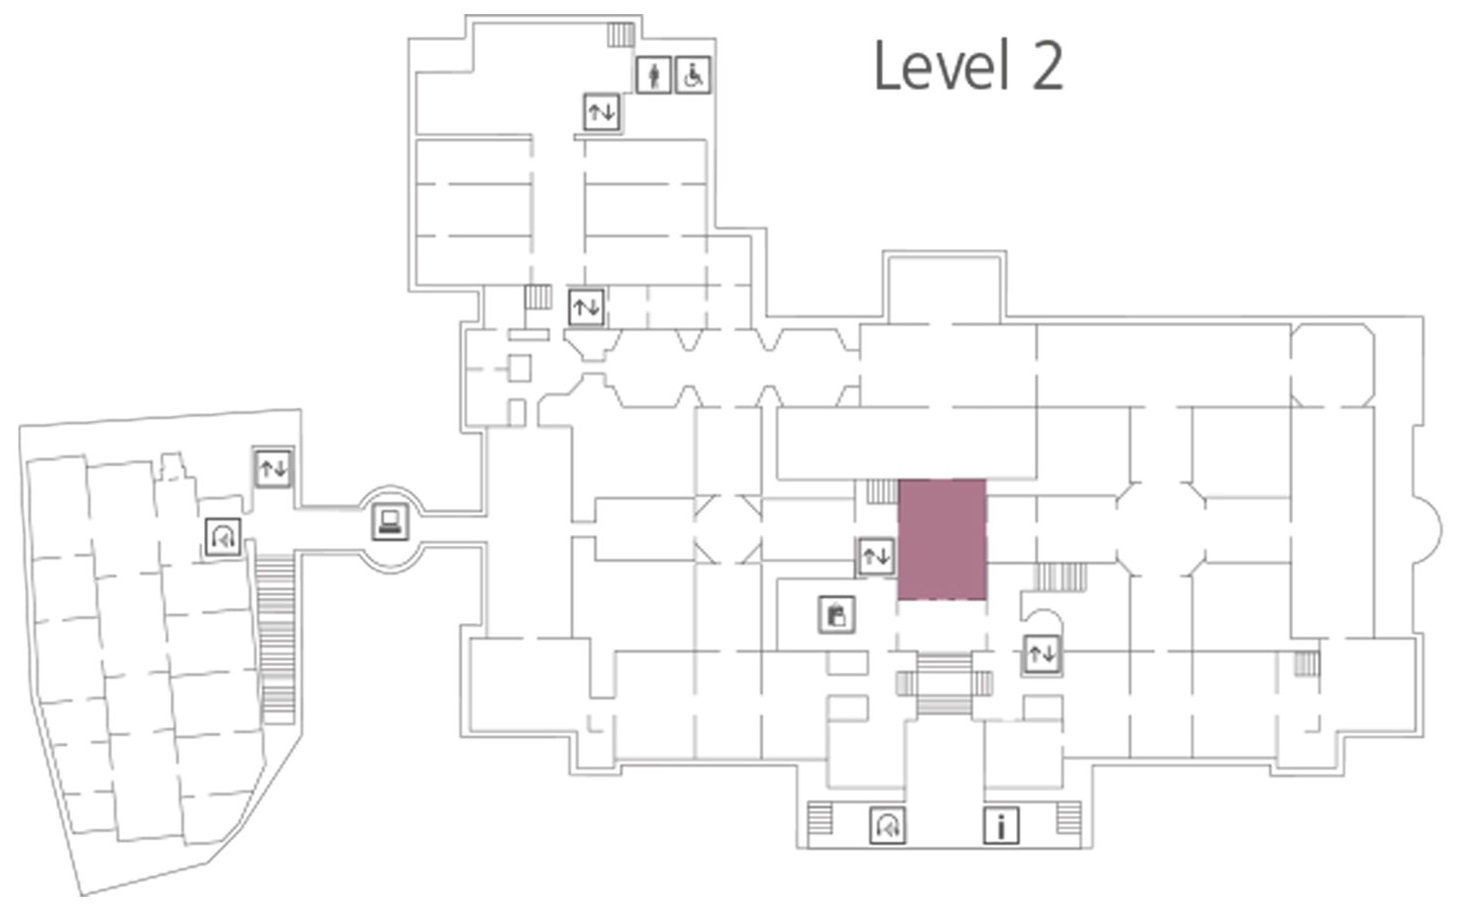
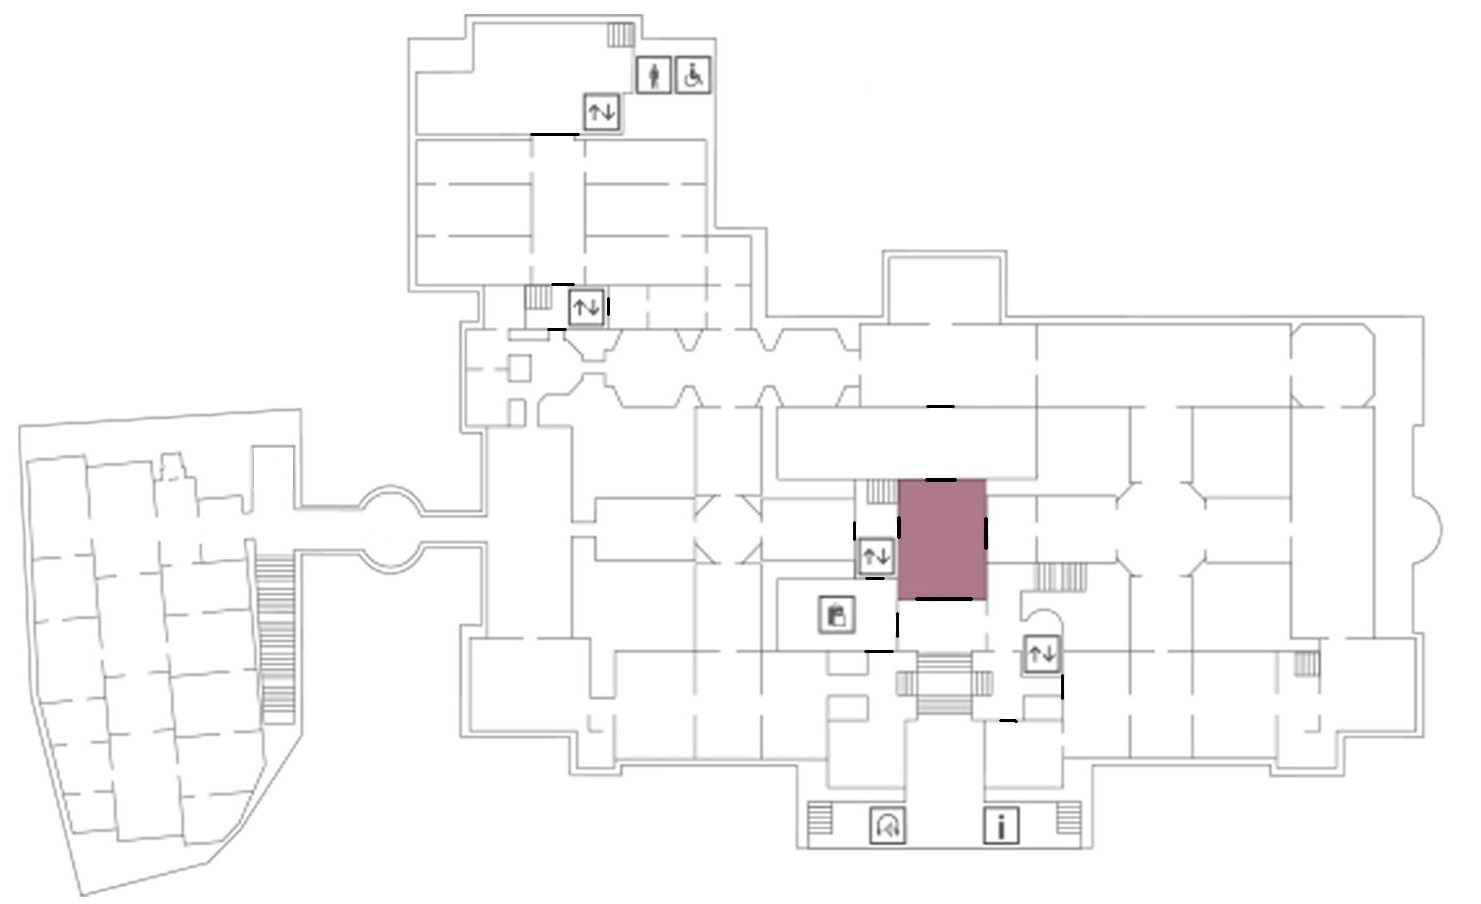
Interesting route works as intended, adjusted the map image for clarity. Refactored the Dijkstra implementation as well.

diff --git a/src/main/java/galleryRouteFinder/structs/Vertex.java b/src/main/java/galleryRouteFinder/structs/Vertex.java
@@ -1,9 +1,13 @@
 package galleryRouteFinder.structs;
 
+import galleryRouteFinder.controllers.MainController;
+import galleryRouteFinder.main.Main;
 import javafx.scene.image.Image;
 import javafx.util.Pair;
 
 import java.util.*;
+
+import static galleryRouteFinder.controllers.MainController.NAMES;
 
 public class Vertex {
     private int posX;
@@ -215,50 +219,72 @@ public class Vertex {
                 }
             }
         }
-
-
         return null;
     }
 
-    public static ArrayList <Integer> inclusiveDijkstra(ArrayList<Vertex> included, ArrayList<Integer> excluded) {
+    public static ArrayList <Integer> inclusiveDijkstra(ArrayList<Vertex> included, ArrayList<Integer> excluded, double shorterDistance, boolean[] artEras) {
         ArrayList <Integer> res=new ArrayList<>();
         for (int i=0; i<included.size()-1; i++){
-            ArrayList<Integer> temp=dijkstra(included.get(i), included.get(i+1), excluded);
+            ArrayList<Integer> temp=dijkstra(included.get(i), included.get(i+1), excluded, shorterDistance, artEras);
             res.addAll(temp);
         }
         return res;
     }
 
-    private static ArrayList<Integer> dijkstra(Vertex startVertex, Vertex endVertex, ArrayList<Integer> excluded)
+    private static ArrayList<Integer> dijkstra(Vertex startVertex, Vertex endVertex, ArrayList<Integer> excluded, double shorterDistance, boolean[] artEras)
     {
         HashMap <Integer, Boolean> visited = new HashMap<>();
         if (excluded!=null)
             for (int i : excluded)
                 visited.put(i, true);
         HashMap <Integer, Vertex> prev = new HashMap<>();
-        PriorityQueue<Pair<Pair<Vertex, Vertex>, Double>> queue=new PriorityQueue<>((o1, o2) -> {
-            if (o1.getValue()<o2.getValue())
-                return -1;
-            else if (o1.getValue()>o2.getValue())
-                return 1;
-            return 0;
+        PriorityQueue<Pair<Pair<Vertex, Vertex>, Pair <Double, Integer>>> queue=new PriorityQueue<>((o1, o2) -> {
+            if (shorterDistance > 0) { //Interesting, weight interesting count first
+                if (o1.getValue().getValue() < o2.getValue().getValue())
+                    return 1;
+                if (o1.getValue().getValue() > o2.getValue().getValue())
+                    return -1;
+            }
+            return -o1.getValue().getKey().compareTo(o2.getValue().getKey());
         });
-        queue.add(new Pair<>(new Pair<>(startVertex, startVertex), 0.0));
+        queue.add(new Pair<>(new Pair<>(startVertex, startVertex), new Pair<>(0.0, 0)));
 
         while (!queue.isEmpty())
         {
-            Pair<Pair<Vertex, Vertex>, Double> pair=queue.poll();
+            Pair<Pair<Vertex, Vertex>, Pair <Double, Integer>> pair=queue.poll();
             Vertex currentVertex=pair.getKey().getValue();
             Vertex prevVertex=pair.getKey().getKey();
-            double cost=pair.getValue();
+            double cost=pair.getValue().getKey();
+            int interestingCount=pair.getValue().getValue();
             visited.put(currentVertex.getId(), true);
             prev.put(currentVertex.getId(), prevVertex);
             if (currentVertex.equals(endVertex))
                 break;
-            for (Edge edge: currentVertex.getBranches())
-                for (Vertex tmp: edge.getNodes())
-                    if (!tmp.equals(currentVertex) && (!visited.containsKey(tmp.getId()) || !visited.get(tmp.getId())))
-                        queue.add(new Pair<>(new Pair<>(currentVertex, tmp), cost+edge.getWeight()));
+            for (Edge edge: currentVertex.getBranches()) {
+                for (Vertex tmp : edge.getNodes()) {
+                    if (!tmp.equals(currentVertex) && !visited.containsKey(tmp.getId())) {
+                        if (shorterDistance<0)
+                        {
+                            queue.add(new Pair<>(new Pair<>(currentVertex, tmp), new Pair<>(cost + edge.getWeight(),  interestingCount)));
+                        }
+                        else
+                        {
+                        boolean flag=false;
+                        for (int i = 0; i< NAMES.length; i++)
+                        {
+                            if (tmp.getCategory().equals(NAMES[i]) && artEras[i]) //Is interesting, decrease by amount
+                            {
+                                queue.add(new Pair<>(new Pair<>(currentVertex, tmp), new Pair<>(cost + edge.getWeight() * (1 - shorterDistance / 100), interestingCount+1)));
+                                flag=true;
+                                break;
+                            }
+                        }
+                        if (!flag)
+                            queue.add(new Pair<>(new Pair<>(currentVertex, tmp), new Pair<>(cost + edge.getWeight() * (1 + shorterDistance / 100), interestingCount)));
+                        }
+                    }
+                }
+            }
         }
         ArrayList <Integer> path=new ArrayList<>();
         while (!endVertex.equals(startVertex))

diff --git a/src/main/java/galleryRouteFinder/controllers/MainController.java b/src/main/java/galleryRouteFinder/controllers/MainController.java
@@ -11,7 +11,6 @@ import javafx.scene.Scene;
 import javafx.scene.control.*;
 import javafx.scene.image.Image;
 import javafx.scene.image.ImageView;
-import javafx.scene.image.PixelBuffer;
 import javafx.scene.image.WritableImage;
 import javafx.scene.input.KeyCode;
 import javafx.scene.layout.AnchorPane;
@@ -25,7 +24,6 @@ import javafx.util.Pair;
 
 import java.io.IOException;
 import java.io.InputStream;
-import java.nio.Buffer;
 import java.util.*;
 
 public class MainController {
@@ -39,13 +37,13 @@ public class MainController {
     ///Back end
     //Constants
     private static final double SCALE=0.7; //Scale of the map in the program
-    private static final String[] NAMES = new String[]{"Medieval and Early Renaissance (1260-1550)", "Renaissance (1500-1600)",  "Baroque (1600-1700)", "Rococo to Romanticism (1700-1800)", "Towards Modernism (1800+)"};
+    public static final String[] NAMES = new String[]{"Temporary Exhibition", "Medieval and Early Renaissance (1260-1550)", "Renaissance (1500-1600)",  "Baroque (1600-1700)", "Rococo to Romanticism (1700-1800)", "Towards Modernism (1800+)"};
 
     private boolean shortestPathAlgorithm=true; //True=Dijkstra, false=bfs,
     private boolean clickedOnce=false, drawing=false;
-    private double walkWillingness=0;
+    private double shorterDistance=0;
     private Pair <Integer, Integer> firstCoords; //Of a click for bfs pixel path
-    private boolean[] artEras=new boolean[5];
+    private boolean[] artEras=new boolean[NAMES.length];
 
     private ArrayList <Vertex> vertices=new ArrayList <>();
     private ArrayList <Edge> edges=new ArrayList <>();
@@ -119,7 +117,7 @@ public class MainController {
                 }
                 start+=tmp.length()+1;
             }
-            vertex.setImage(new Image(getClass().getResourceAsStream("/images/"+vertex.getId()+".jpg")));
+//            vertex.setImage(new Image(getClass().getResourceAsStream("/images/"+vertex.getId()+".jpg")));
             vertices.add(vertex);
         }
     }
@@ -204,7 +202,7 @@ public class MainController {
         if (!containsEnd)
             included.add(endV);
         if (shortestPathAlgorithm) //Diji
-            res = Vertex.inclusiveDijkstra(included, excluded);
+            res = Vertex.inclusiveDijkstra(included, excluded, -1, null);
         else {
             LinkedList<Vertex> excludeLL = new LinkedList<>();
             for(int i : excluded) excludeLL.add(getVertex(i));
@@ -224,7 +222,7 @@ public class MainController {
         alert.setTitle("Route Preferences");
         alert.setHeaderText("Select your art interests and walking preferences");
 
-        CheckBox[] checkBoxes = new CheckBox[5];
+        CheckBox[] checkBoxes = new CheckBox[NAMES.length];
         for (int i = 0; i < checkBoxes.length; i++)
         {
             checkBoxes[i] = new CheckBox(NAMES[i]);
@@ -237,9 +235,9 @@ public class MainController {
         slider.setMajorTickUnit(10);
         slider.setMinorTickCount(0);
         slider.setSnapToTicks(true);
-        slider.setValue(walkWillingness);
+        slider.setValue(shorterDistance);
 
-        Label label=new Label("Care about shorter distance x% more:");
+        Label label=new Label("Care about shorter distance x% less:");
 
         VBox vbox=new VBox(10);
         for  (CheckBox checkBox : checkBoxes)
@@ -253,7 +251,7 @@ public class MainController {
         {
             for (int i=0; i<checkBoxes.length; i++)
                 artEras[i]=checkBoxes[i].isSelected();
-            walkWillingness=slider.getValue();
+            shorterDistance=slider.getValue();
         }
     }
 
@@ -261,6 +259,19 @@ public class MainController {
     {
         if (drawing)
             return;
+        int startId = Integer.parseInt(startingRoom.getText()), endId = Integer.parseInt(endingRoom.getText());
+        Vertex startV = getVertex(startId), endV = getVertex(endId);
+        boolean containsEnd=included.contains(endV), containsStart=included.contains(startV);
+        if (!containsStart)
+            included.addFirst(startV);
+        if (!containsEnd)
+            included.add(endV);
+        ArrayList <Integer> res = Vertex.inclusiveDijkstra(included, excluded, shorterDistance, artEras);
+        if (!containsStart)
+            included.remove(startV);
+        if (!containsEnd)
+            included.remove(endV);
+        visualizeShortestPath(res);
     }
 
     public void dfsRouting()
@@ -286,8 +297,8 @@ public class MainController {
         LinkedList<int[]> res=Vertex.BFS(start, end, findWalls());
         for (int[] v : res)
             System.out.println(v[0]+","+v[1]);
-//        visualizePixelPath(res);
-        stupidPathShowTestForYobbos(res);
+        visualizePixelPath(res);
+//        stupidPathShowTestForYobbos(res);
     }
 
     public void switchIncludeExcludeView()

diff --git a/src/main/java/galleryRouteFinder/main/BenchmarkClass.java b/src/main/java/galleryRouteFinder/main/BenchmarkClass.java
@@ -1,5 +1,6 @@
 package galleryRouteFinder.main;
 
+import galleryRouteFinder.controllers.MainController;
 import galleryRouteFinder.structs.Vertex;
 import javafx.util.Pair;
 import org.openjdk.jmh.annotations.*;
@@ -59,7 +60,7 @@ public class BenchmarkClass {
         ArrayList <Vertex> tmp=new ArrayList <>();
         tmp.add(vertices.getFirst());
         tmp.add(vertices.getLast());
-        ArrayList <Integer> res=Vertex.inclusiveDijkstra(tmp, null);
+        ArrayList <Integer> res=Vertex.inclusiveDijkstra(tmp, null, -1, null);
         bh.consume(res);
     }
     @Benchmark

diff --git a/src/main/Tests/galleryRouteFinder/structs/VertexTest.java b/src/main/Tests/galleryRouteFinder/structs/VertexTest.java
@@ -219,7 +219,7 @@ class VertexTest {
         ArrayList <Vertex> tmp=new ArrayList <>();
         tmp.add(a);
         tmp.add(k);
-        ArrayList <Integer> dijkstraRes = Vertex.inclusiveDijkstra(tmp, null);
+        ArrayList <Integer> dijkstraRes = Vertex.inclusiveDijkstra(tmp, null, -1, null);
         for (int i = 0; i < dijkstraRes.size(); i++) {
             assertSame(dijkstraRes.get(i), BFSRes.get(i));
         }
